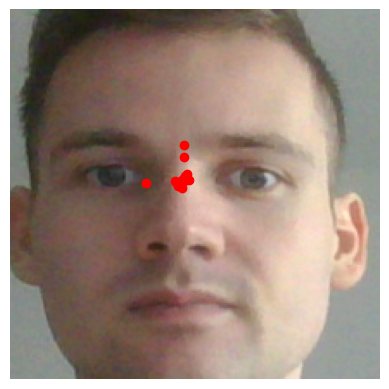
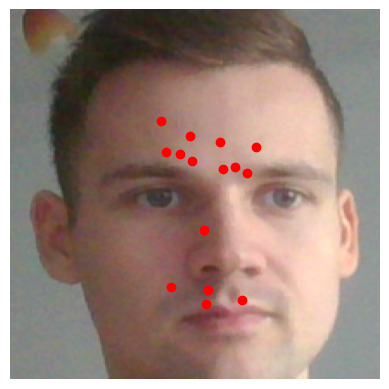
Predicted coordinates upscaling fixed

diff --git a/Code/backend/main.py b/Code/backend/main.py
@@ -131,18 +131,14 @@ def upscale_coordinates(coordinates, image_size):
     print("Normalized image size: " + str(image_size))
 
     for i in range(len(coordinates)//2):
-        x = coordinates[i]
-        y = coordinates[i + 1]
+        x = coordinates[i*2]
+        y = coordinates[i*2 + 1]
 
         x_ratio = x / 96.
         y_ratio = y / 96.
 
         new_x = round(x_ratio * image_size, 0)
         new_y = round(y_ratio * image_size, 0)
-        print("x_ratio " + str(x_ratio))
-        print("y_ratio " + str(y_ratio))
-        print("Coordinates on shrunk(96x96) image --> x: " +  str(x) + " y: " + str(y))
-        print("Coordinates on normalized()" + str(image_size) + "x" + str(image_size) + ") image --> x: " + str(new_x) + " y: " + str(new_y))
         upscaled_coordinates.append(new_x)
         upscaled_coordinates.append(new_y)
 

diff --git a/Code/backend/image_service.py b/Code/backend/image_service.py
@@ -46,7 +46,7 @@ def print_points_on_image(image, points, filename):
 
     plt.axis('off') 
     plt.autoscale(True)
-    plt.imshow(image) 
+    plt.imshow(image)
    
     # plt.show()
     plt.savefig(filename, bbox_inches='tight')
@@ -85,12 +85,6 @@ def get_average_pixels(image, width, height):
 # This method crops the image 
 def crop_image(image, width, height):
 
-    # left_upper_corner_x = 0
-    # left_upper_corner_y = 0
-
-    # right_bottom_x = 0
-    # right_bottom_y = 0
-
     width_third = width / 3
     height_fourth = height / 4
 
@@ -102,7 +96,4 @@ def crop_image(image, width, height):
 
     cropper_image = image.crop((left_upper_corner_x, left_upper_corner_y, right_bottom_x, right_bottom_y))
  
-    # Shows the image in image viewer
-    cropper_image.show()
-
     return cropper_image
